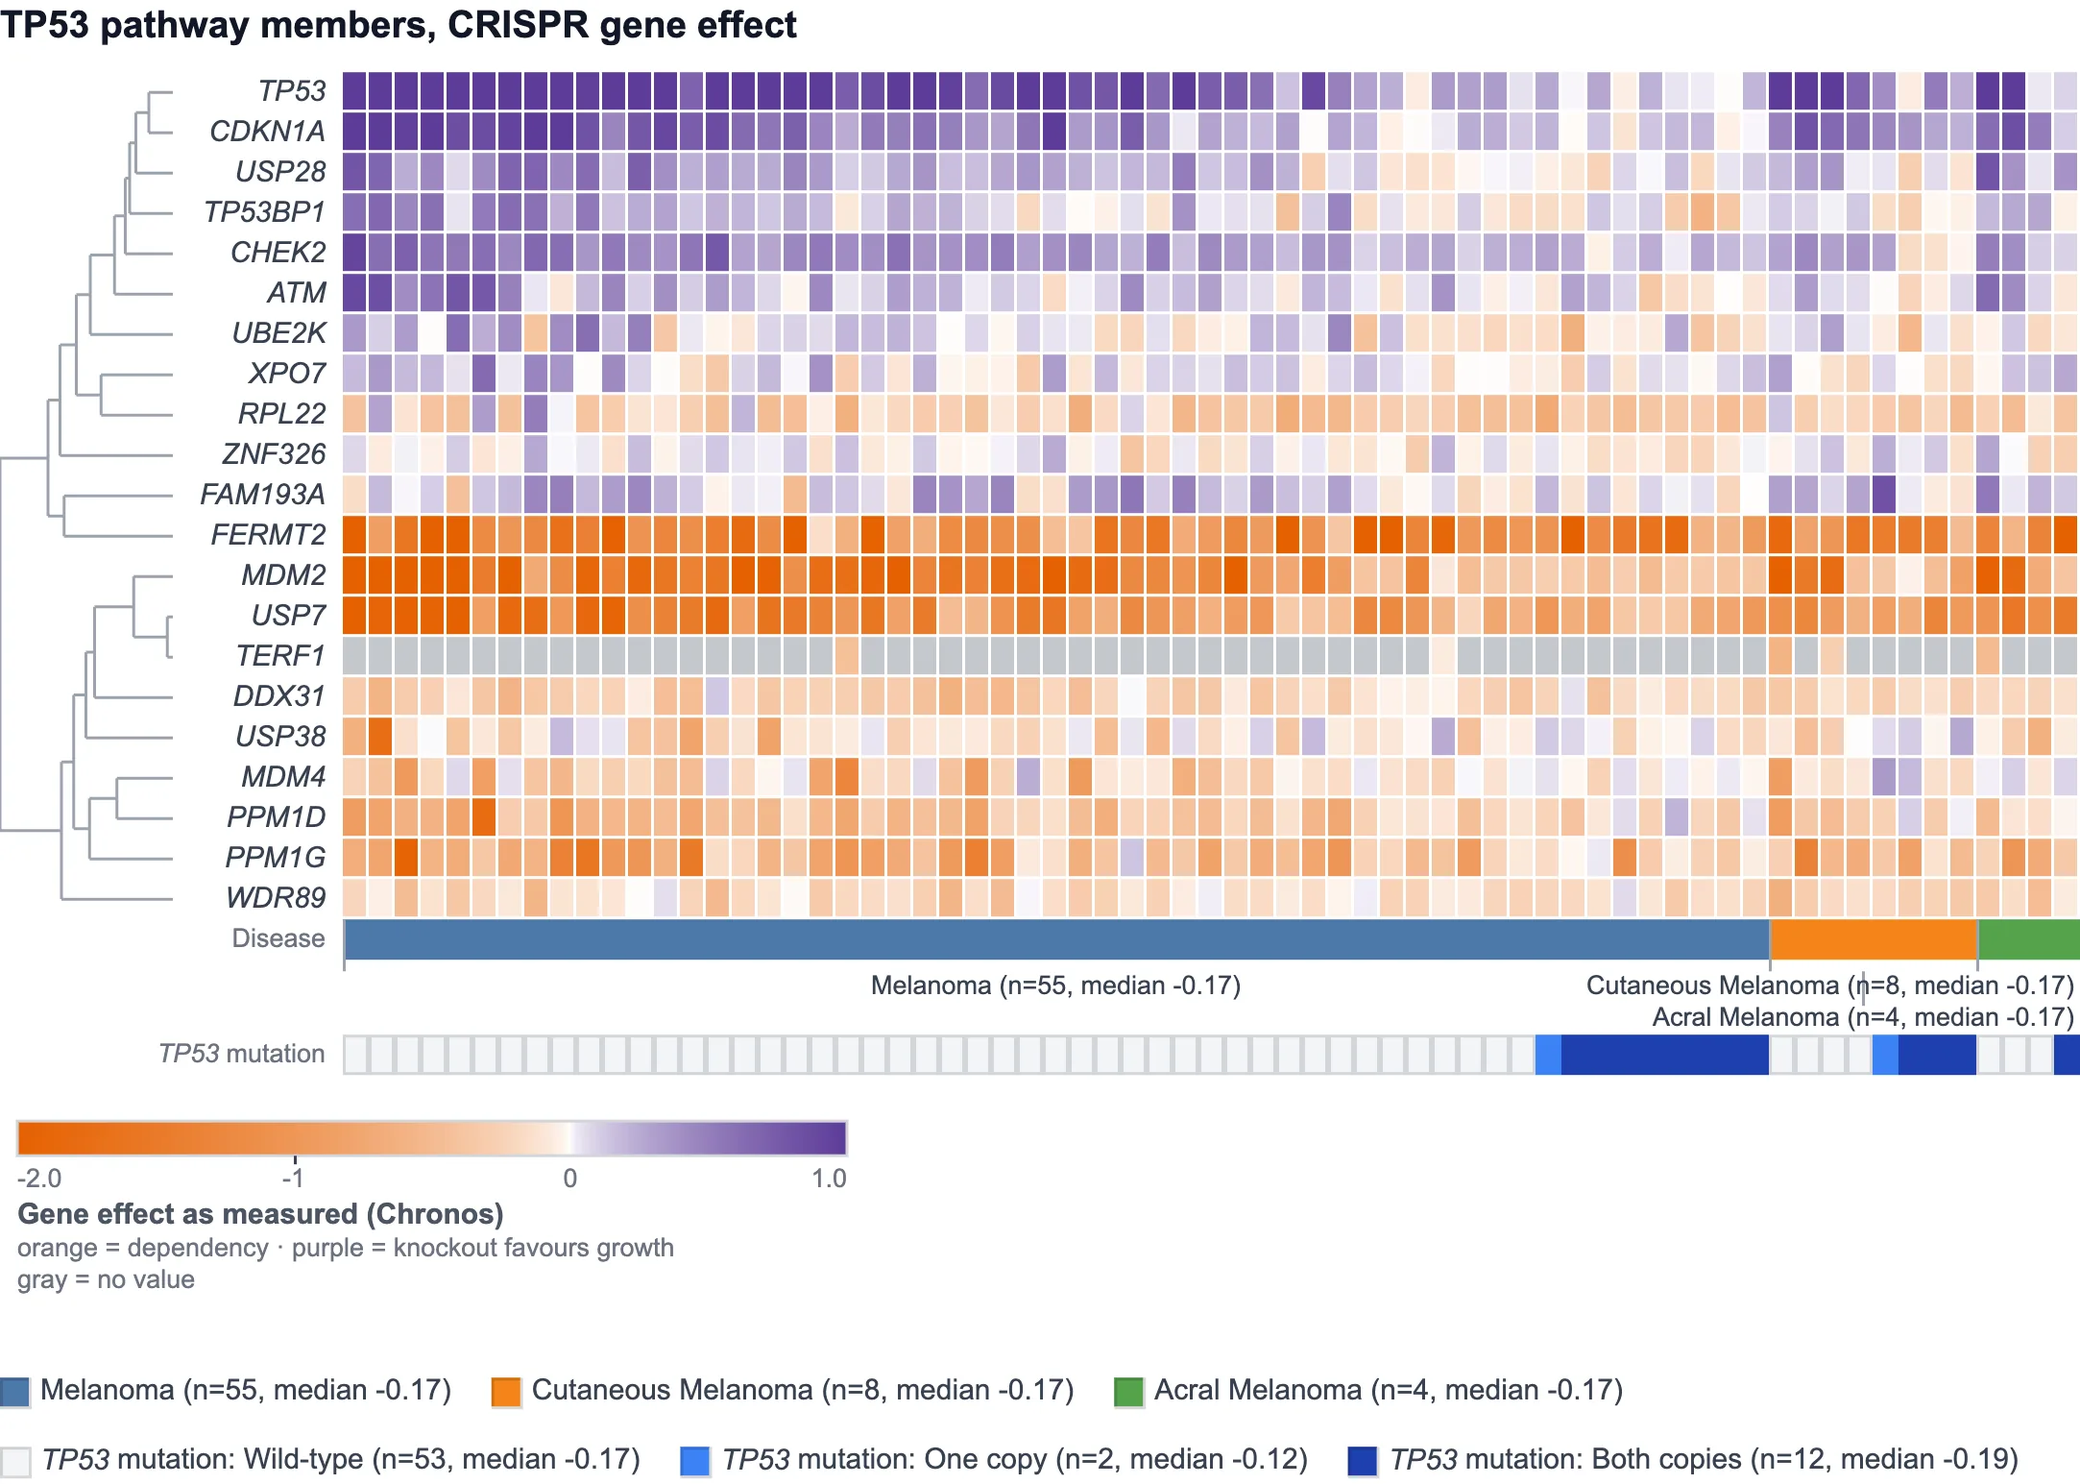
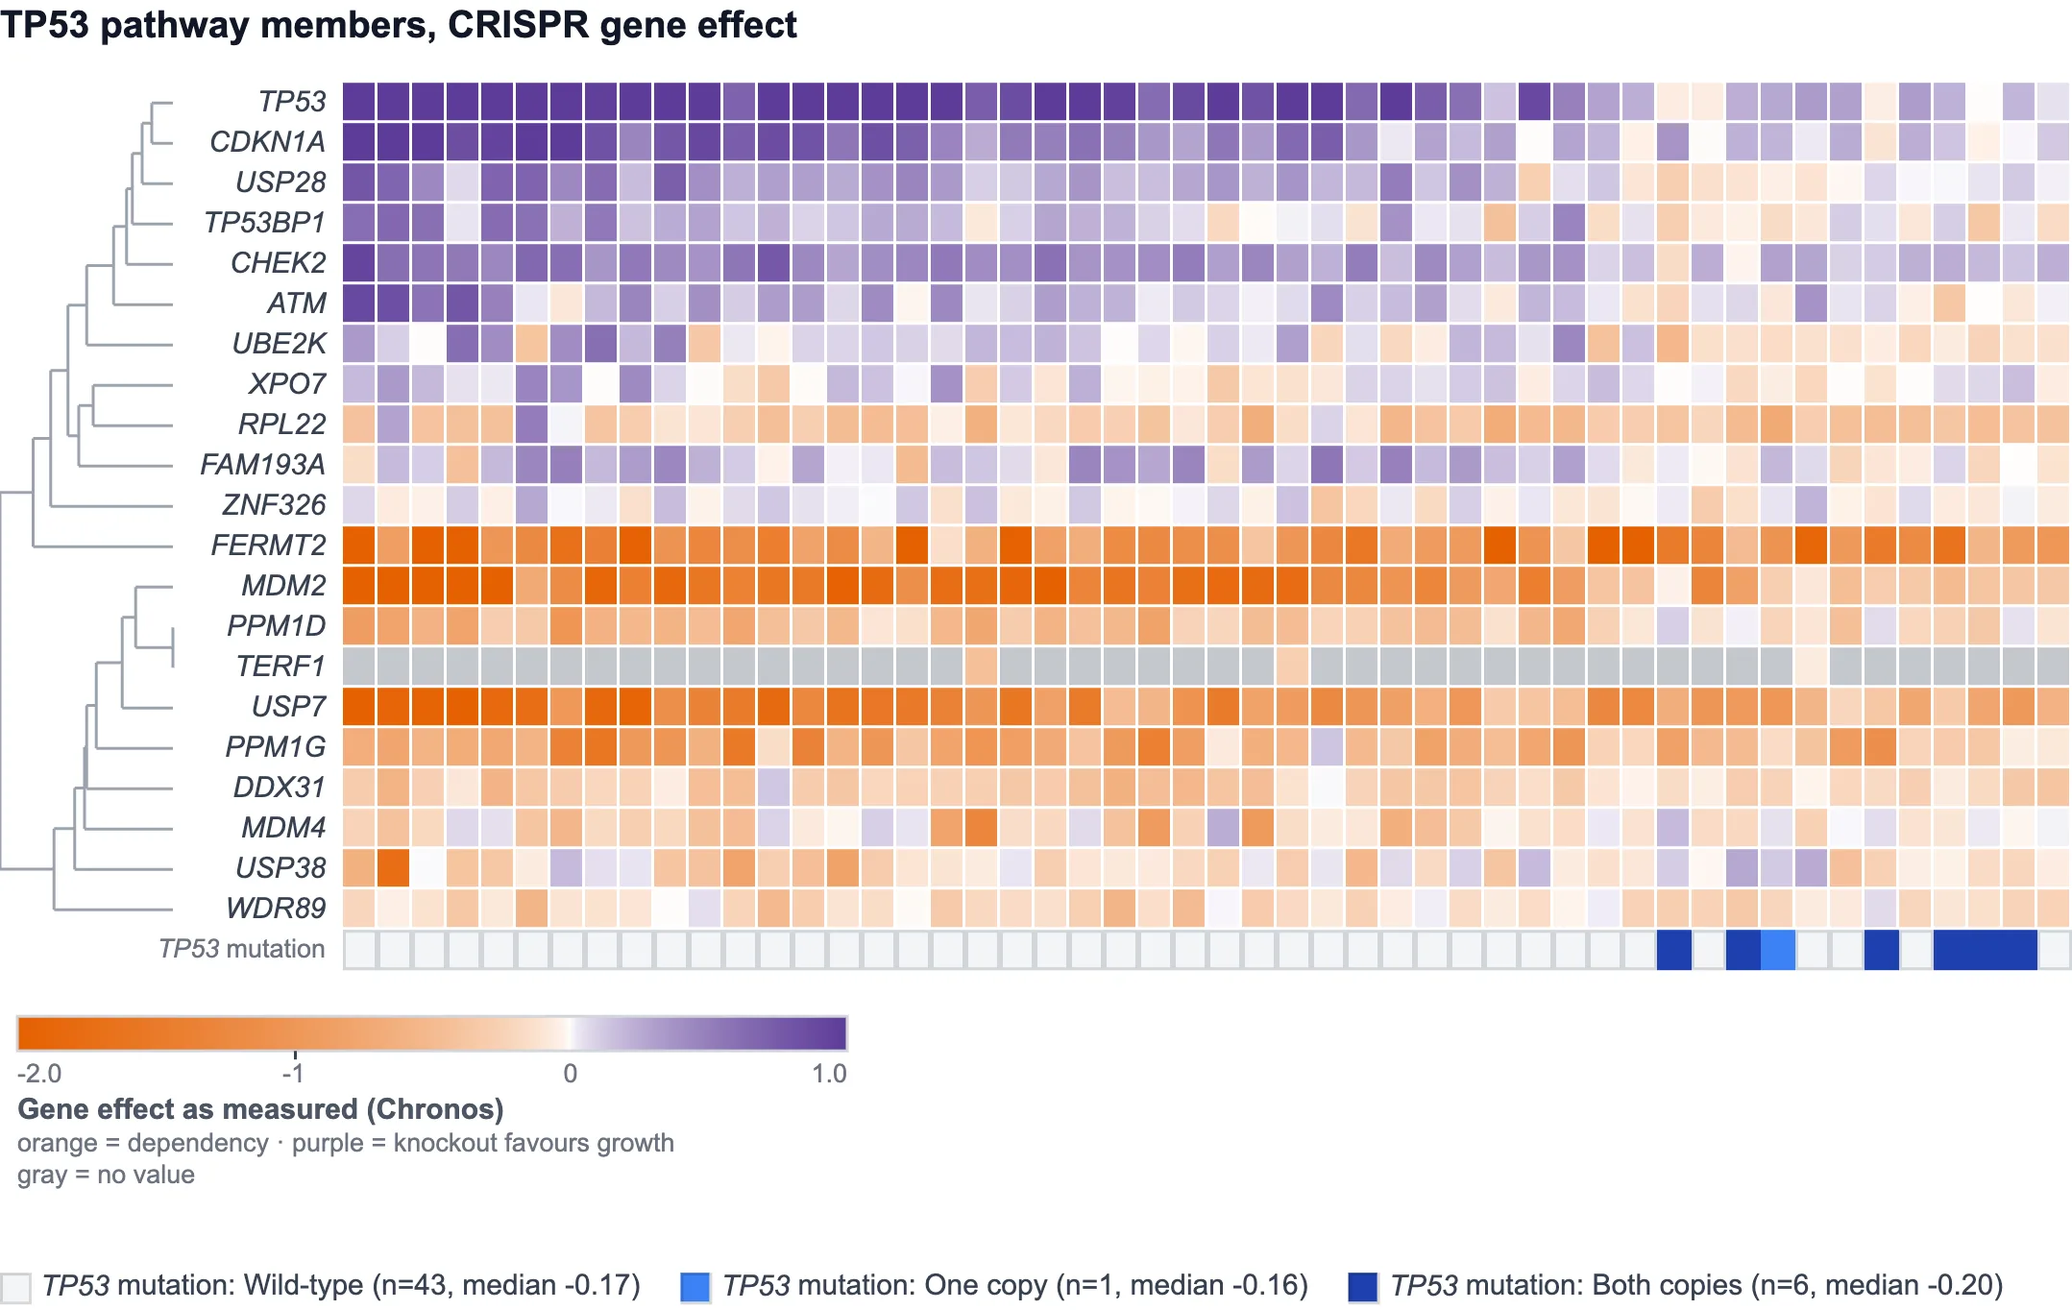
v.91.43: tour: comparison, PCA and heatmap on the same 50 BRAF-mutated melanoma cell lines under one heading; comprehensive-summary wording for cell lines and genes; US spelling
Claude-Session: https://claude.ai/code/session_01GrRsah6zkLaafT5s7nhzFW

diff --git a/tour.js b/tour.js
@@ -74,7 +74,7 @@
     const wait = (ms) => new Promise(r => setTimeout(r, ms));
     const tick = (id) => { const cb = document.getElementById(id); if (cb && !cb.checked) cb.click(); };
     const until = async (test, max) => { for (let i = 0; i < (max || 80); i++) { if (test()) return true; await wait(250); } return false; };
-    // The "Test Genes" set with pasted screen statistics, nodes coloured by
+    // The "Test Genes" set with pasted screen statistics, nodes colored by
     // LFC, genes without a correlation shown too.
     async function runStatsExample(a, withStats) {
         document.getElementById('modeGeneSetBtn')?.click();
@@ -101,7 +101,7 @@
         a._runBusy({ button: 'clbInspectGEBtn', label: 'Comparing' }, () => a.inspectSelectionGE());
     }
     async function pcaMelanoma(a) {
-        await openMelanoma(a, '');
+        await openMelanoma(a, 'BRAF');
         [...document.querySelectorAll('#clbModalCard button')].find(b => /PCA \/ UMAP/.test(b.textContent))?.click();
         await wait(800);
         setVal('clbUmapMethod', 'pca'); setVal('clbUmapDataType', 'expr');
@@ -116,14 +116,16 @@
         document.getElementById('clbUmapColorGeneBtn')?.click();
     }
     async function heatmapMelanoma(a) {
-        await openMelanoma(a, '');
+        await openMelanoma(a, 'BRAF');
         document.getElementById('clbHeatmapBtn')?.click();
         await wait(800);
         setVal('hmLineage', 'Skin'); await wait(400);
         setVal('hmSubtype', 'Melanoma'); await wait(400);
-        const rows = a._hmAnnRows || [];
-        const mut = rows.find(r => r.mode === 'hotspot');
-        if (mut) { mut.gene = 'TP53'; mut.sortKey = 'cat-asc'; a._hmRenderAnnRowsBlock?.(); }
+        setVal('hmHotspotFilter', 'BRAF'); await wait(400);
+        // One annotation row, TP53 mutation, so the columns are not split
+        // into disease blocks.
+        a._hmAnnRows = [{ mode: 'hotspot', gene: 'TP53', sortDir: null, sortKey: 'cat-asc' }];
+        a._hmRenderAnnRowsBlock?.();
         setVal('hmPreset', 'tp53_members');
     }
     async function runMutationExample(a) {
@@ -194,7 +196,7 @@
                 <li><span>Hover a dot</span> to see which cell line it is.</li>
                 <li><span>Click a dot</span> to label it, <span>Shift-click</span> to open the cell line's page.</li>
                 <li><span>Drag</span> over an area to zoom in, <span>double-click</span> to zoom out.</li>
-                <li>Use the panel on the left to filter, colour the dots, highlight cell lines or compare tissues.</li>
+                <li>Use the panel on the left to filter, color the dots, highlight cell lines or compare tissues.</li>
                 <li><span>Settings</span> under the plot changes sizes and fonts.</li>
             </ul>`;
         card.querySelector('button').addEventListener('click', () => card.remove());
@@ -286,7 +288,7 @@
             <li>Find connections within your own gene list, for example hits from a CRISPR screen or a transcriptomics experiment, from unbiased correlations of CRISPR gene effect or mRNA across the cell lines.</li>
             <li>Find the right cell lines for your project, by mutations, mutation patterns and cancer type, and compare omics data between groups of cell lines.</li>
             <li>Get extensive information about any gene: dependency, expression, mutations, protein complexes, drugs and literature, gathered from DepMap, UniProt, Cellosaurus and other sources.</li>
-            <li>Export any view for AI, to discuss the data with your favourite language model.</li>
+            <li>Export any view for AI, to discuss the data with your favorite language model.</li>
         </ul>
         </div>
         <div class="tour-hero-shot">
@@ -313,12 +315,12 @@
             <p>Correlate calculates the correlation (Pearson r) between every pair of genes in your set across the cell lines, on CRISPR gene effect (${nL} cell lines) or on mRNA expression. Pairs whose correlation passes the cutoff you set are joined by a line in the network: blue for a positive correlation, red for a negative one, thicker for a stronger one. Genes that end up joined often work together, in the same complex or pathway.</p>
             ${checks([
                 'Hover over a gene or an edge for details. Double-click a gene for its gene effect across the cell lines, or an edge for the correlation plot behind it.',
-                'Paste your own screen results (LFC and FDR) next to the gene list, and Correlate shows the set as a network coloured by your results, or as a correlation matrix.',
+                'Paste your own screen results (LFC and FDR) next to the gene list, and Correlate shows the set as a network colored by your results, or as a correlation matrix.',
                 'Expand the set to find new partners that are not in your list, and send genes to Enrichr to see which known gene sets (Reactome, GO and others) they overlap with.',
             ])}
         </div>
         <div class="tour-two tour-two-net">
-            ${shot('net_stats', 'A list of 22 cancer genes with screen statistics pasted alongside, nodes coloured by LFC', 'heroStats', { cap: 'A network of 22 genes with statistics from your own experiment added: each gene is coloured by its value, here the log fold change (LFC) from a screen.', btn: 'Build it with the screen results' })}
+            ${shot('net_stats', 'A list of 22 cancer genes with screen statistics pasted alongside, nodes colored by LFC', 'heroStats', { cap: 'A network of 22 genes with statistics from your own experiment added: each gene is colored by its value, here the log fold change (LFC) from a screen.', btn: 'Build it with the screen results' })}
             ${shot('net_mrna', 'The same eleven genes built on mRNA expression', 'heroMrna', { cap: `The ${nSet} genes from the top of the page, as a network built on mRNA expression data.`, btn: 'Build this set on mRNA' })}
         </div>
     </div>
@@ -340,12 +342,12 @@
                 <h3>Then ask why</h3>
                 ${checks([
                     'Filter to a cancer type or a mutation. r and p follow the filter.',
-                    `Colour the dots by tissue, by a mutation, or by a third gene. <b>Suggest</b> finds the gene that explains the pattern best.`,
+                    `Color the dots by tissue, by a mutation, or by a third gene. <b>Suggest</b> finds the gene that explains the pattern best.`,
                     'Highlight cell lines by typing their names or clicking their dots, and compare tissues or mutation groups side by side.',
                     '<b>Export for AI</b> sends the plot with the data behind it, so you can ask an AI what could explain the pattern.',
                 ])}
             </div>
-            ${shot('scatter_eda2r', 'TP53 against MDM2 gene effect, coloured by EDA2R mRNA', 'eda2r', { cap: `The same plot coloured by ${gi('EDA2R')} mRNA, a p53 target gene: the cell lines that depend on ${gi('MDM2')} are the ones with active p53.`, btn: 'Open it coloured by EDA2R' })}
+            ${shot('scatter_eda2r', 'TP53 against MDM2 gene effect, colored by EDA2R mRNA', 'eda2r', { cap: `The same plot colored by ${gi('EDA2R')} mRNA, a p53 target gene: the cell lines that depend on ${gi('MDM2')} are the ones with active p53.`, btn: 'Open it colored by EDA2R' })}
         </div>
     </div>
     <div class="tour-wrap tour-next-row">${nextBtn('tour-cells', 'Cell Line Browser')}</div>
@@ -357,7 +359,7 @@
             <div class="tour-text">
                 <p class="tour-eyebrow">3 &middot; Cell Line Browser</p>
                 <h2>Find the right cell lines for your project</h2>
-                <p>Narrow the ${nL} cell lines down by cancer type, mutation, fusion, copy number, sex, drug response, or how much they express or need any gene. Every cell line has its own page.</p>
+                <p>Narrow the ${nL} cell lines down by cancer type, mutation, fusion, copy number, sex, drug response, or how much they express or need any gene. Every cell line has its own comprehensive summary.</p>
                 ${checks([
                     `Example: melanoma cell lines with mutated ${gi('BRAF')}. The count updates as you go.`,
                     'From the list: compare the selection with the rest, a PCA or UMAP, a heatmap of any gene set.',
@@ -376,23 +378,27 @@
             </div>
             ${shot('oncoprint_mel', 'The mutation grid for the 67 melanoma cell lines, BRAF mutated kept, TP53 and CDKN2A mutated left out', 'oncoprint', { cap: `The 67 melanoma cell lines: ${gi('BRAF')}-mutated kept (green), ${gi('TP53')}- and ${gi('CDKN2A')}-mutated left out (red), which leaves 38.`, btn: 'Open the mutation grid with these picks' })}
         </div>
+        <div class="tour-text tour-text-wide" style="margin-top:56px;">
+            <h3>Compare the cell lines in different ways</h3>
+            <p>The same 50 <i>BRAF</i>-mutated melanoma cell lines, three ways: against all other cell lines, as a PCA, and as a heatmap of a gene set.</p>
+        </div>
         <div class="tour-two tour-two-tight tour-two-pca">
             ${shot('volcano_mel', 'Volcano plot comparing the 50 BRAF-mutant melanoma cell lines with every other cell line', 'compare', { cap: `Compare: the 50 selected cell lines against the other 1,158. ${gi('BRAF')}, ${gi('SOX10')} and ${gi('MAPK1')} are their dependencies.`, btn: 'Compare these cell lines with the rest' })}
-            ${shot('pca_mitf', 'PCA of the melanoma cell lines on mRNA, coloured by MITF expression, with loadings', 'pca', { cap: `PCA of the melanoma cell lines on mRNA, coloured by ${gi('MITF')} expression. The loadings name the genes behind the axes.`, btn: 'Open this PCA' })}
+            ${shot('pca_mitf', 'PCA of the melanoma cell lines on mRNA, colored by MITF expression, with loadings', 'pca', { cap: `PCA of the same 50 cell lines on mRNA, colored by ${gi('MITF')} expression. The loadings name the genes behind the axes.`, btn: 'Open this PCA' })}
         </div>
         <div class="tour-wide-shot">
-            ${shot('heatmap_tp53', 'Heatmap of the TP53 pathway members across the melanoma cell lines, with a TP53 mutation row', 'heatmap', { cap: `Heatmap: the ${gi('TP53')} pathway members across the melanoma cell lines, sorted by ${gi('TP53')} mutation. Wild-type cell lines depend on ${gi('MDM2')} and ${gi('USP7')}; mutant ones do not.`, btn: 'Open this heatmap' })}
+            ${shot('heatmap_tp53', 'Heatmap of the TP53 pathway members across the 50 BRAF-mutated melanoma cell lines, with a TP53 mutation row', 'heatmap', { cap: `Heatmap: the ${gi('TP53')} pathway members across the same 50 cell lines. Those with wild-type ${gi('TP53')} depend on ${gi('MDM2')} and ${gi('USP7')}; the ${gi('TP53')}-mutated ones, on the right, do not.`, btn: 'Open this heatmap' })}
         </div>
         <div class="tour-feature">
             <div class="tour-text">
-                <h3>A page for every cell line</h3>
+                <h3>A comprehensive summary of every cell line</h3>
                 ${checks([
-                    'A summary on top: cancer type, patient, drivers and genome.',
-                    'Where the cell line came from and which lines were derived from it, from Cellosaurus.',
-                    'Mutations, copy number, dependencies and drug response, each with its source.',
+                    'Many sections, gathered from DepMap, Cellosaurus and other sources: origin and history, classification, mutations, copy number, dependencies, drug response and more.',
+                    'Which pathways are altered, pointing to the ones involved in transforming the cell line.',
+                    'Suggested antigens for FACS: surface proteins the cell line expresses strongly and fairly uniquely.',
                 ])}
             </div>
-            ${shot('wiki_a375', 'The cell line page for A375: summary, history and cancer classification', 'wiki', { cap: 'The page for A375: a summary, its history and derived lines, and how it is classified.', btn: 'Open the A375 page' })}
+            ${shot('wiki_a375', 'The summary for A375: overview, history and cancer classification', 'wiki', { cap: 'The start of the A375 summary: an overview, its history and derived cell lines, and how it is classified.', btn: 'Open the A375 summary' })}
         </div>
     </div>
     <div class="tour-wrap tour-next-row">${nextBtn('tour-gene', 'Gene Browser')}</div>
@@ -403,8 +409,8 @@
         <div class="tour-feature tour-flip">
             <div class="tour-text">
                 <p class="tour-eyebrow">4 &middot; Gene Browser</p>
-                <h2>One gene, one page</h2>
-                <p>Type a gene. Its page says how much cells need it and which cancers need it most, how it is expressed, which genes follow it, and which complexes and pathways it belongs to. Save it as a PDF.</p>
+                <h2>A comprehensive summary of every gene</h2>
+                <p>Type a gene and get a summary over many sections: how much cells need it and which cancers need it most, how it is expressed, which genes follow it, which complexes and pathways it belongs to, its mutations, structure and sequence. Save it as a PDF.</p>
                 ${checks([
                     'A verdict for dependency and for expression, ranked against every gene.',
                     'Co-dependencies and co-expression, with complex partners ringed.',
@@ -446,7 +452,7 @@
             </div>
             ${shot('export_dialog', 'The Export image dialog', null, { cls: 'tour-shot-dialog', cap: 'Export image: what to export, format, size in cm, resolution, background.' })}
         </div>
-        <div class="tour-cta tour-cta-center">${tryBtn('hero', 'Build the example network')}${tryBtn('wiki', 'Open the A375 page')}${tryBtn('stats', 'The statistics behind the app')}</div>
+        <div class="tour-cta tour-cta-center">${tryBtn('hero', 'Build the example network')}${tryBtn('wiki', 'Open the A375 summary')}${tryBtn('stats', 'The statistics behind the app')}</div>
         <button type="button" class="tour-close-end" id="tourCloseEnd">Close the tour and start using Correlate</button>
         <p class="tour-foot">Data: DepMap 26Q1 (Broad Institute), with EBI Complex Portal, Reactome, PRISM and the other sources listed under Reference Data. Correlate is developed in the Wermeling lab.</p>
     </div>

diff --git a/index.html b/index.html
@@ -3014,6 +3014,10 @@
                 <button onclick="this.closest('#changelogModal').style.display='none'" style="background:none;border:none;font-size:20px;cursor:pointer;">&times;</button>
             </div>
             <div style="font-size:12px; line-height:1.6; color:#374151;">
+                <p><strong>v.91.43 (2026-10-25)</strong></p>
+                <ul>
+                    <li>Tour of the app: the comparison, PCA and heatmap examples all use the same 50 BRAF-mutated melanoma cell lines, under a "Compare the cell lines in different ways" heading; the heatmap is sorted by TP53 mutation without disease blocks; cell lines and genes are described as comprehensive summaries (with the altered pathways and FACS antigen suggestions named for cell lines); US spelling throughout the tour.</li>
+                </ul>
                 <p><strong>v.91.42 (2026-10-25)</strong></p>
                 <ul>
                     <li>Tour of the app: the mutation grid example keeps BRAF-mutated melanoma cell lines and leaves out TP53- and CDKN2A-mutated ones (38 of 67); its button makes the same picks.</li>
@@ -8820,7 +8824,7 @@
             </span>
             <!-- Positioned off the row's right end (see #versionBadge CSS), so
                  it sits next to YouTube without moving the centred links. -->
-            <a href="#" id="versionBadge" onclick="event.preventDefault();document.getElementById('changelogModal').style.display='flex'" style="font-family:monospace; font-size:11px; background:#f3f4f6; padding:2px 8px; border-radius:10px; color:#6b7280; border:1px solid #d1d5db; font-weight:400;">v.91.42</a>
+            <a href="#" id="versionBadge" onclick="event.preventDefault();document.getElementById('changelogModal').style.display='flex'" style="font-family:monospace; font-size:11px; background:#f3f4f6; padding:2px 8px; border-radius:10px; color:#6b7280; border:1px solid #d1d5db; font-weight:400;">v.91.43</a>
         </span>
     </div>
 
@@ -12199,6 +12203,6 @@
     </div>
 
     <script src="app.js?v=v91_40"></script>
-    <script src="tour.js?v=v91_42"></script>
+    <script src="tour.js?v=v91_43"></script>
 </body>
 </html>
